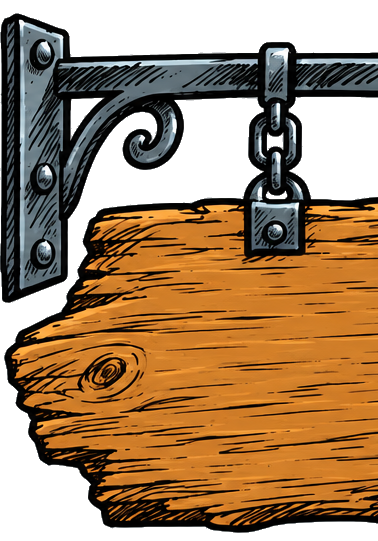
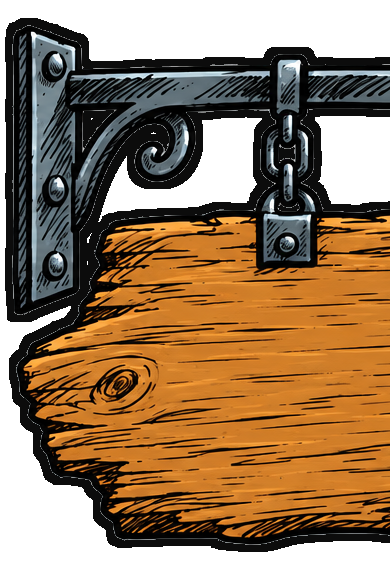
Menu header: black ink edge round the sign, inked letters, see-through dark box behind
Claude-Session: https://claude.ai/code/session_01GrbNTwVienMcpmsk1Pgq12

diff --git a/guides/DESIGNER_MANUAL.md b/guides/DESIGNER_MANUAL.md
@@ -7692,7 +7692,7 @@ stay in `assets/ui/save/pixellab/`.
 
 **The menu header (20 Oct 2026, Anthony): a hanging tavern sign.** The
 screen's name hangs at the top left on an oak board under an iron wall bracket
-(r106 idea 1, drawn blank in r107), written in the game's heading font. It is
+(r106 idea 1, drawn blank in r107, with a thick black ink edge added for free), written in the game's heading font. It is
 three pictures in `assets/ui/header/`: left (wall plate, left chain), middle
 (plain bar and board) and right (right chain, board end, bar tip). Only the
 middle stretches, so a longer name or another language makes the sign wider:
@@ -7703,7 +7703,8 @@ no new art per language. Set in **`data/MenuHeader.csv`**:
 | `left`, `middle`, `right` | Image = the three pieces |
 | `sign` | X = left edge (0 = the plate touches the screen's left), Y = top, Size = height in pixels |
 | `text` | Size = letter size, Colour = letter colour; X = where the writing space starts in the left piece, Y = the board's middle (pixels of the drawing) |
-| `outline` | Size = the dark edge round the letters (0 = none), Colour = its colour |
+| `outline` | Size = the dark ink edge round the letters (0 = none), Colour = its colour |
+| `backing` | the see-through black box behind the sign so it stands out (Anthony 20 Oct): Size = how far it reaches past the sign, Colour's last two digits = how solid |
 | `padding` | X = where the writing space ends in the right piece, Y = the gap kept at both ends of the board |
 
 The words come from `data/Language.csv` (`choose_a_save`). Any screen can use
